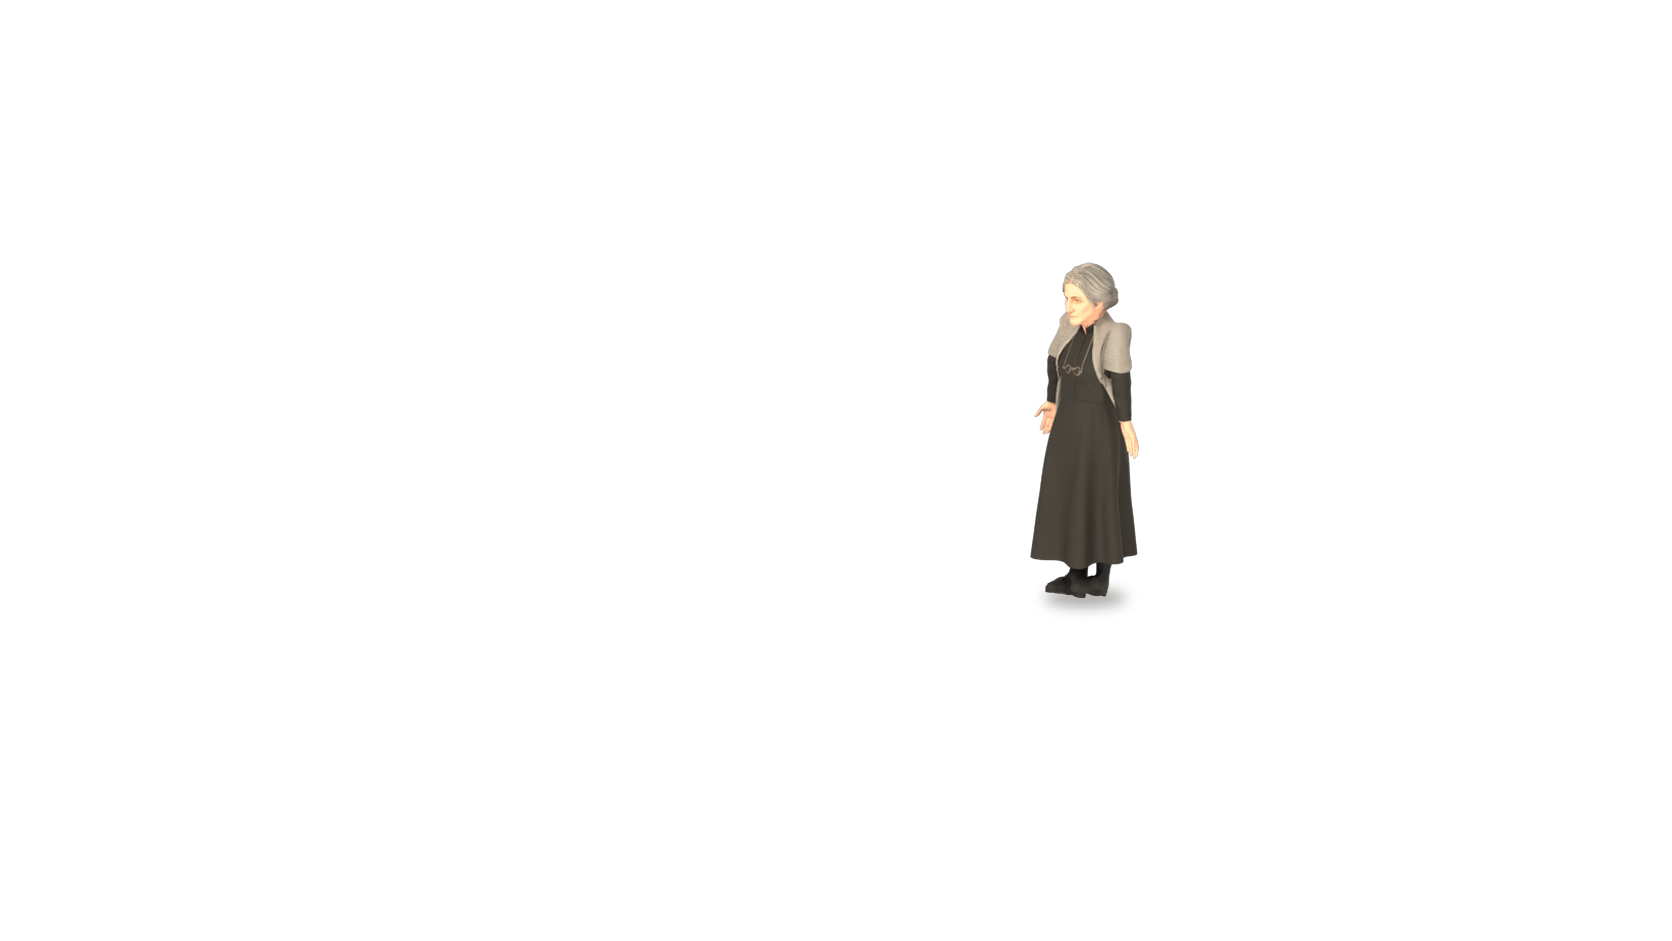
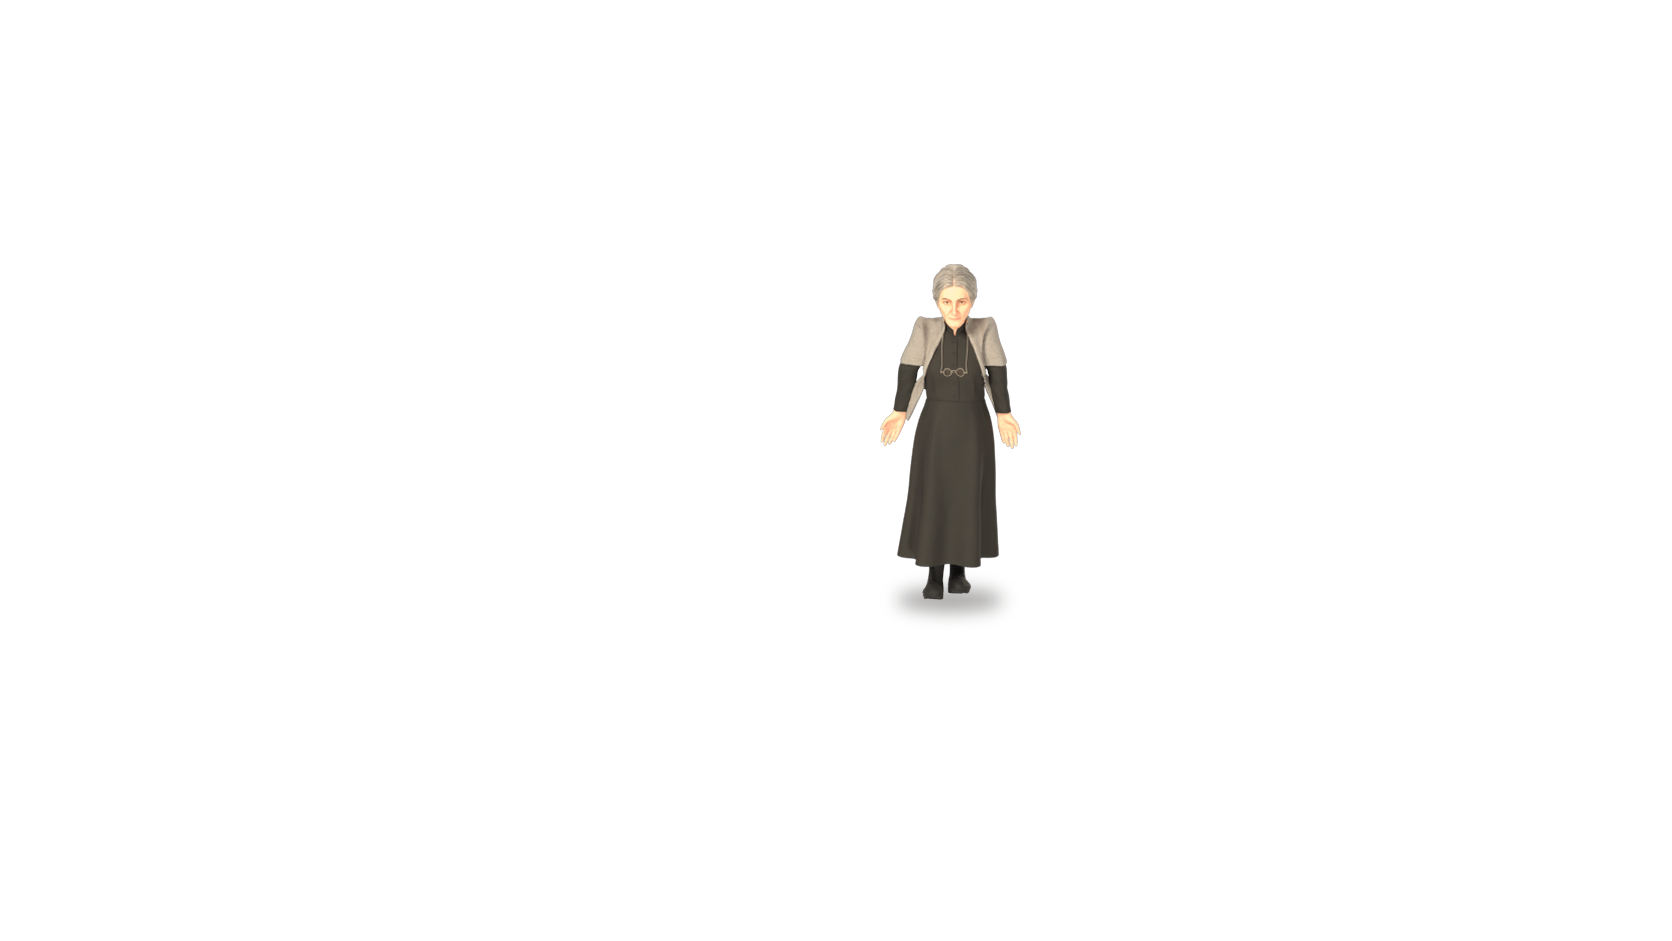
Кадры называют своё место, урок эпилога перекомпонован, test_day3 устойчив к параллельным прогонам
- Над кадрами в строке комнаты было имя комнаты под ними («Береговой поворот» над классом и ужином): кадр задаёт
  place (локация) или title (текст), game_ui показывает его; validate_rooms — кадр без них ошибка; test_day3
  проверяет заголовки мельницы, класса, моста.
- Урок эпилога: Ульяна за партой второго ряда (как в тексте «за партами… среди них Ульяна»), Нина у доски в проходе.
- test_day3: слоты «День третий/четвёртый» и автосохранение — свои у каждого процесса (параллельный прогон другого
  агента удалял test3_day3 — красный save/load); остановка ворота в реальном времени игры (под нагрузкой кадр ×4
  проскакивал окно кольца).

Claude-Session: https://claude.ai/code/session_01Qvdjz1zmfr41cRSvLxvjeK

Changed region(s): [[0.5287, 0.2774, 0.6842, 0.678]]

diff --git a/tools/validate_rooms.py b/tools/validate_rooms.py
@@ -1484,6 +1484,21 @@ for rid, room in sorted(rooms.items()):
             if sc_id and it in (scenes.get(sc_id, {}).get("grants", {}).get("items", []) or []):
                 err(f"{rid}.{h.get('id', h.get('to'))}.item_use.{it}: предмет тратится в сцене {sc_id}, а её grants.items его выдают — после завершения он вернулся бы в сумку")
 
+# Кадр (frame: true) называет своё место в строке комнаты: place — id локации или title — ключ текста (23.10: над классом
+# и ужином эпилога стояло «Береговой поворот» — имя комнаты под кадром).
+for rid, room in sorted(rooms.items()):
+    if not room.get("frame"):
+        continue
+    if "place" in room:
+        if room["place"] not in loc_ids:
+            err(f"{rid}: place {room['place']} — нет такой локации")
+    elif "title" in room:
+        t = str(room["title"])
+        if not t.startswith("@") or t[1:] not in texts:
+            err(f"{rid}: title {t} — нет такого текста")
+    else:
+        err(f"{rid}: кадр без place / title — в строке комнаты останется имя комнаты под ним")
+
 # Флаг, от которого зависит видимость в комнате (visible_if / hidden_if / if / unless / if_any), кто-то должен ставить:
 # сцена (grants, sets постановки, выбор реплики), задание, хотспот (sets, once_flag, выбор), вход в комнату. Флаг,
 # только объявленный в комнате, — мёртвое условие (дефект 23.10: жена Ильи в O3 по wife_came, а его никто не ставил).

diff --git a/Docs/CURRENT_STATE.md b/Docs/CURRENT_STATE.md
@@ -5,6 +5,7 @@
 - **Движок (общее, данными):** кадры поверх мира `FrameView` (`stage[].frame`, комнаты-картины `"frame": true`, `hold` — последний кадр с «Конец»); крупный план посреди сцены (`mechanics` — ворот M25: «Пускай/Стой/Подымай», удар о камень без наказания); условия у реплик и постановок (`if`/`unless`/`if_any`/`switch`, переключатели — `meta.json → switches`); `sets` у постановки (ночь→утро в затемнении); листаемые крупные планы (`view.pages`); маятник `swing` у слоя; точки старта `?start=<id>` (`data/story/start_points.json`, `RoomManager.start_at`); вклейка фигур в картины `tools/make_frame_layers.py` (поле `compose`), бревно отдельно от картины `tools/make_span_layers.py`.
 - **Доказательства:** `tools/run_tests.sh` код 0 (лог `build/logs/run_all.txt`); новый `game/tests/test_day3.gd` 8/8 — логика ворота, данные (без старой цепи, D21, C18–C20), все кадры собираются, точки старта, **блоки 3–4 целиком ботом** от дальней опоры до последнего кадра (ворот — щелчками мыши по табличкам, с ударом о камень), сохранение/загрузка «День третий», «День четвёртый», после конца, следы выборов, все необязательные истории; `test_day2` (конец дня — переход в Ольховку), `test_music` (финал — эпилог M26). Валидаторы: story (38/3/10, кадры, условия реплик, механика сцены), rooms (кадры, фигура не стоит на выходе — дефект «Тамара на дороге к реке» стал проверкой), lights (свет кадров), voice, ambient.
 - **3D-жители и F13 (второй коммит блоков 3–5):** Нина, Илья, Ульяна, жена Ильи — NPC из листов 3D (`game/data/actors/<id>.json`, качание idle/talk измерено `tools/measure_idle.py`), плоские `front.png` удалены; Тамара — набор `tamara_v3` (решение Директора 22.10), старые листы удалены из игры. Кадры (`tools/make_frame_layers.py`) — из листов 3D; у пятерых новых — кадр 0 листа talk (спокойная поза; Idle сейчас «застывший шаг»). Ужин и урок эпилога перекомпонованы (ноги на полу, Ульяна в двери, чашка на столе), надписи на торце бревна и число на доске урока — в координатах экрана. Перерендер стойки (коммиты 06ce297, fb2c886 — конвейер) встаёт без правки данных: `tools/sync_characters.sh nina ilya ulyana ilya_wife tamara_v3`, `python3 tools/measure_idle.py <id> --write` (+ `--action talk --all-frames --period 4.0 --hold 0.2 --write`), `python3 tools/make_frame_layers.py`. F13: `boat_shuttle_open` ставит M22 (начало свободного дня) — блок 2 по нему пускает лодку R3 ↔ R1. Веб-проверка блоков 3–5 реальными кликами — `node tools/olkhovka_web.mjs` (кадры в `Docs/evidence/M3/`). CI: при красном прогоне каждая ошибка теста — аннотация (`tools/run_tests.sh`), читается без лога задания.
+- **Проверка реальными кликами в веб-сборке (`node tools/olkhovka_web.mjs`, кадры `Docs/evidence/M3/`, лог `build/shots/olkhovka/`):** нашла и закрыла: Агата у ходиков/стола O3 и у доски O1 стояла внутри Нины/Ульяны (новая проверка `validate_rooms` 9b), жена Ильи не появлялась (флаг `wife_came` никто не ставил — новая проверка «условие по флагу, который никто не ставит»), над кадрами эпилога в строке комнаты было «Береговой поворот» (кадры называют своё место: `place` / `title`), ужин и урок эпилога — ноги в воздухе (перекомпоновка), надписи на торце и на доске мимо (координаты экрана). Страница на swiftshader идёт ~1–2 кадра/с: ворот и эпилог проверяются минутами.
 - **Не сделано / ждёт:** Арт-заявки — `assets/manifest.json` (O1_nina_answers, O1_bird_reply, H1_nina_coat, EP_lesson_children, EP_dinner_family_seated, EP_beam_carvings, O3_night, S1_sign_moved). Стыки с блоком 2 (после его сдачи): Заречье на 3–4 день без сумерек (Z3/R1 слои и свет `unless morning_day3`), Z3 в день стройки и эпилога (слои `Z3_state_beam`/`Z3_state_bridge`), Митя и Пелагея на R3 после M22 (скрыть), Павел в M1 на 3–4 день (реплика), голоса — после текстового прохода.
 - **Ждёт Директора:** пройти `Docs/ACCEPTANCE_M3.md`; имя жены Ильи (`characters.json → ilya_wife.name`), имя-отчество управляющего (`manager.name`), где учится Агата (`agata.study_place`).
 
